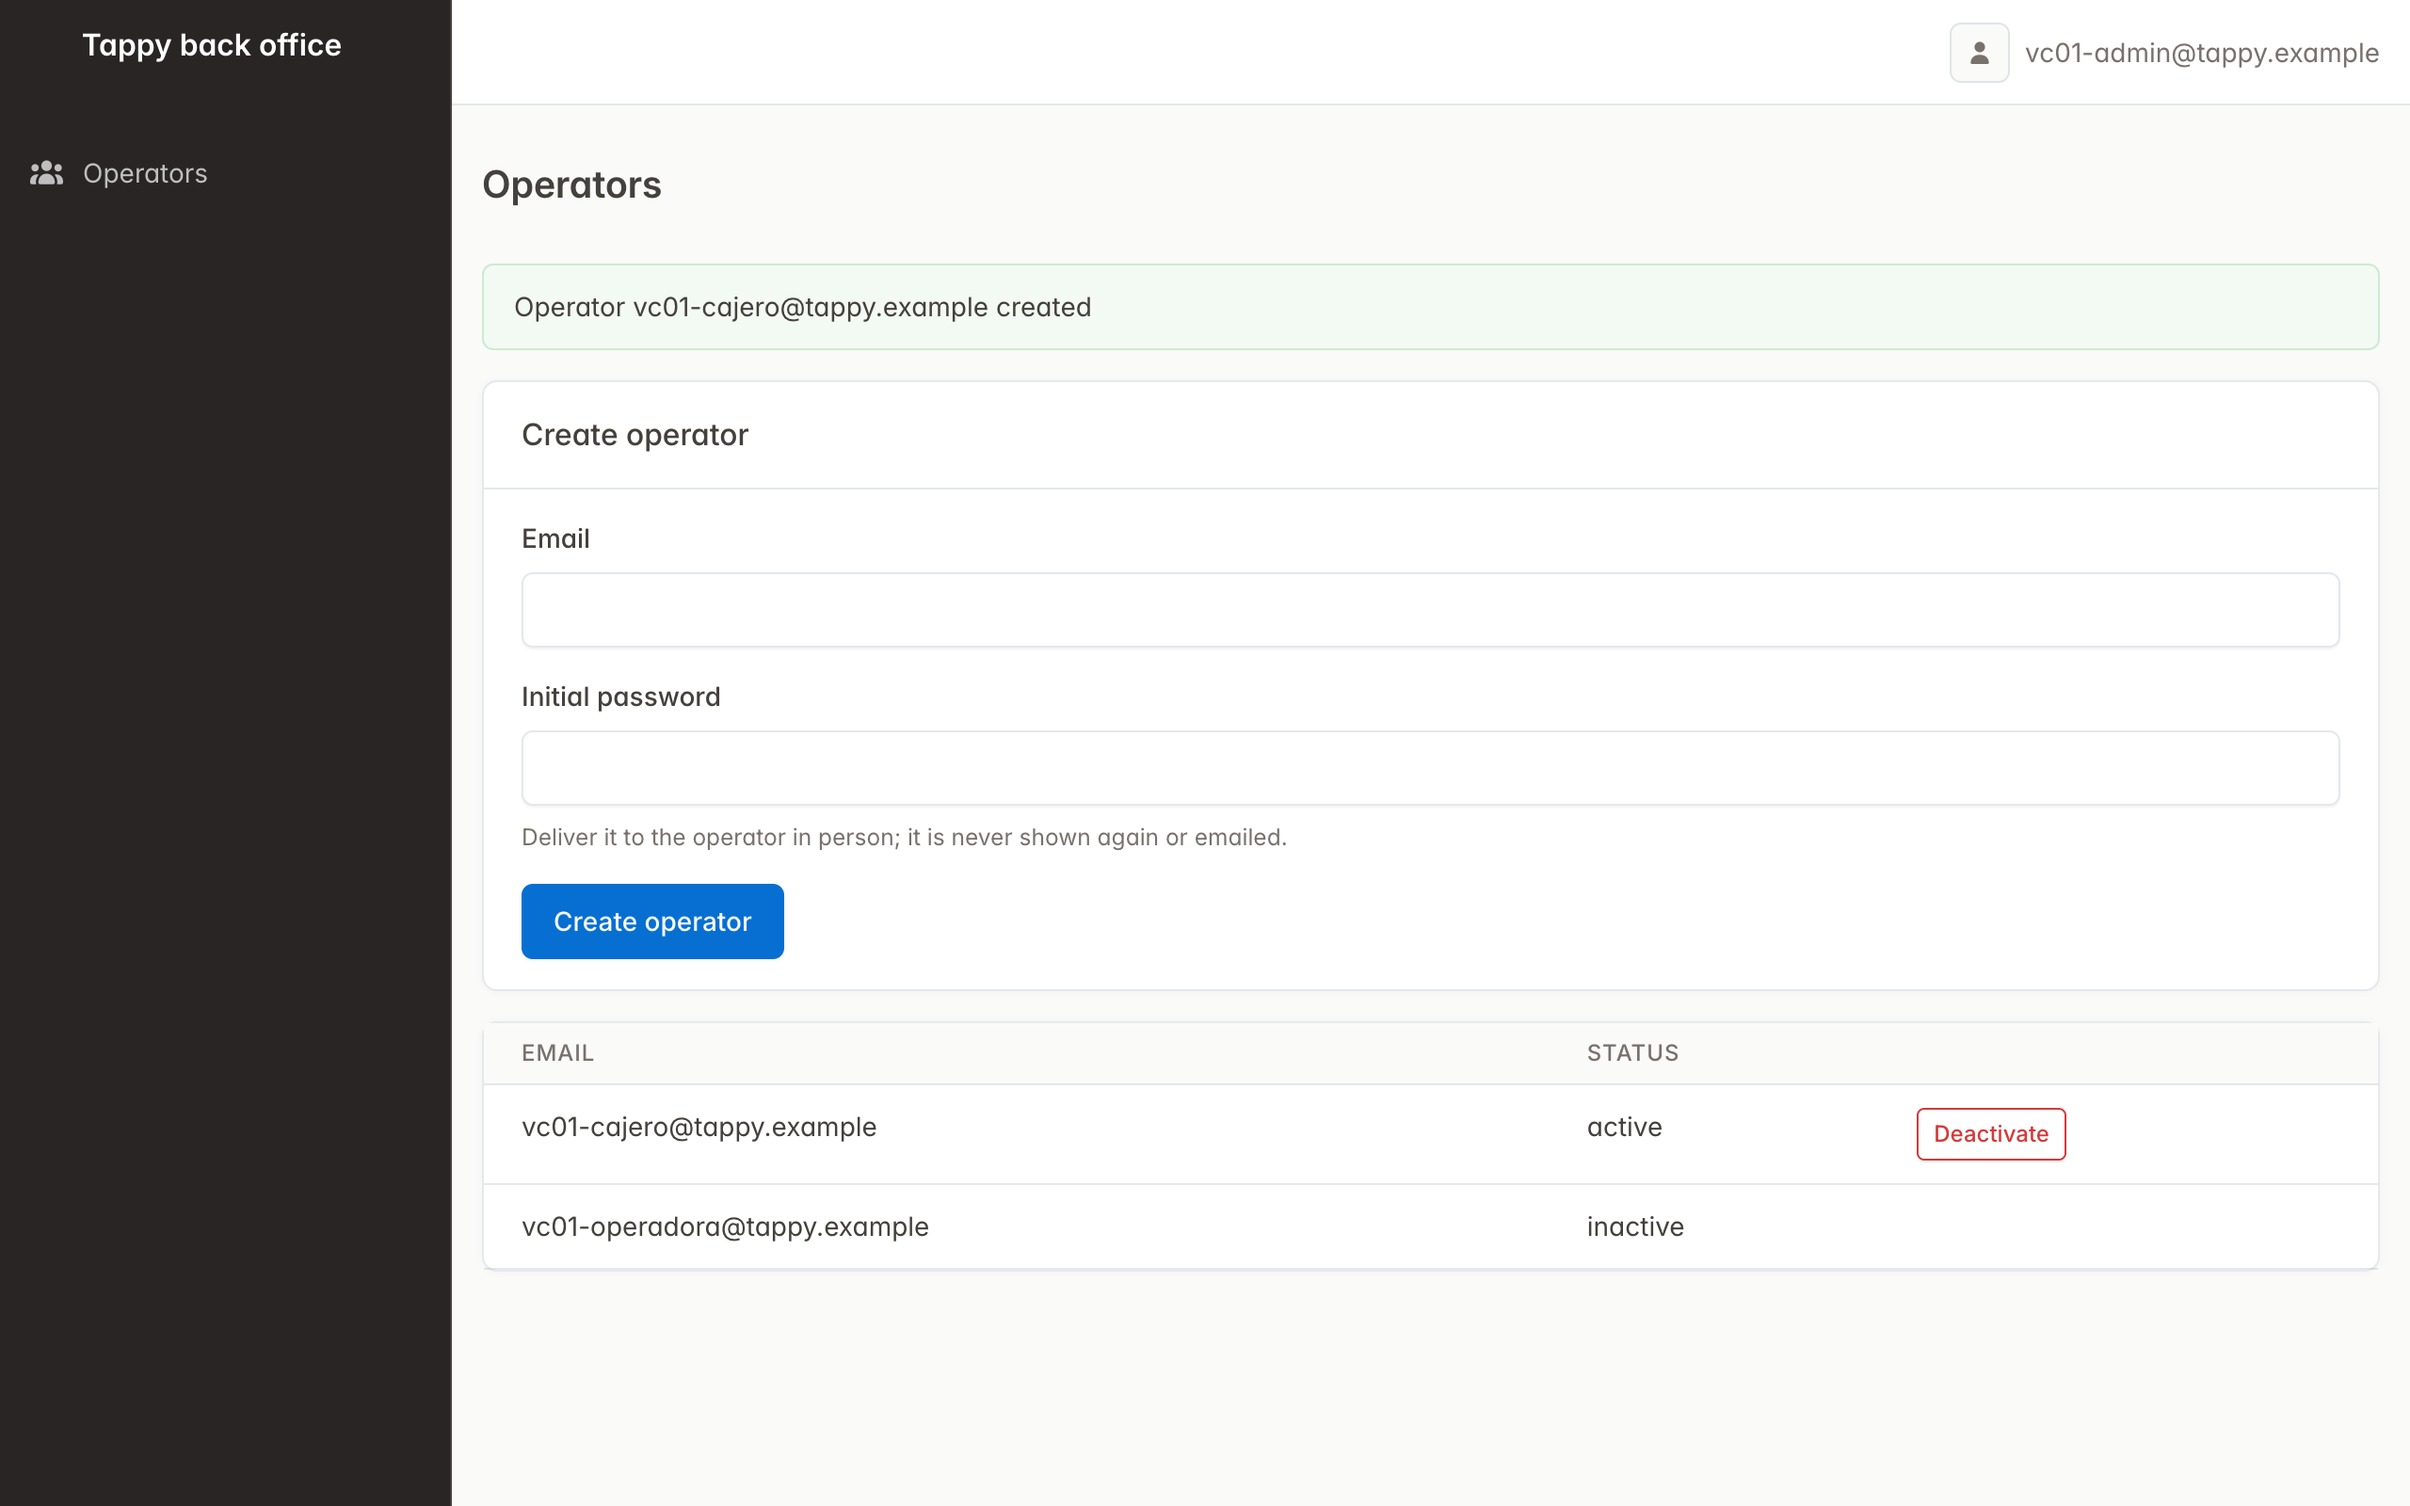
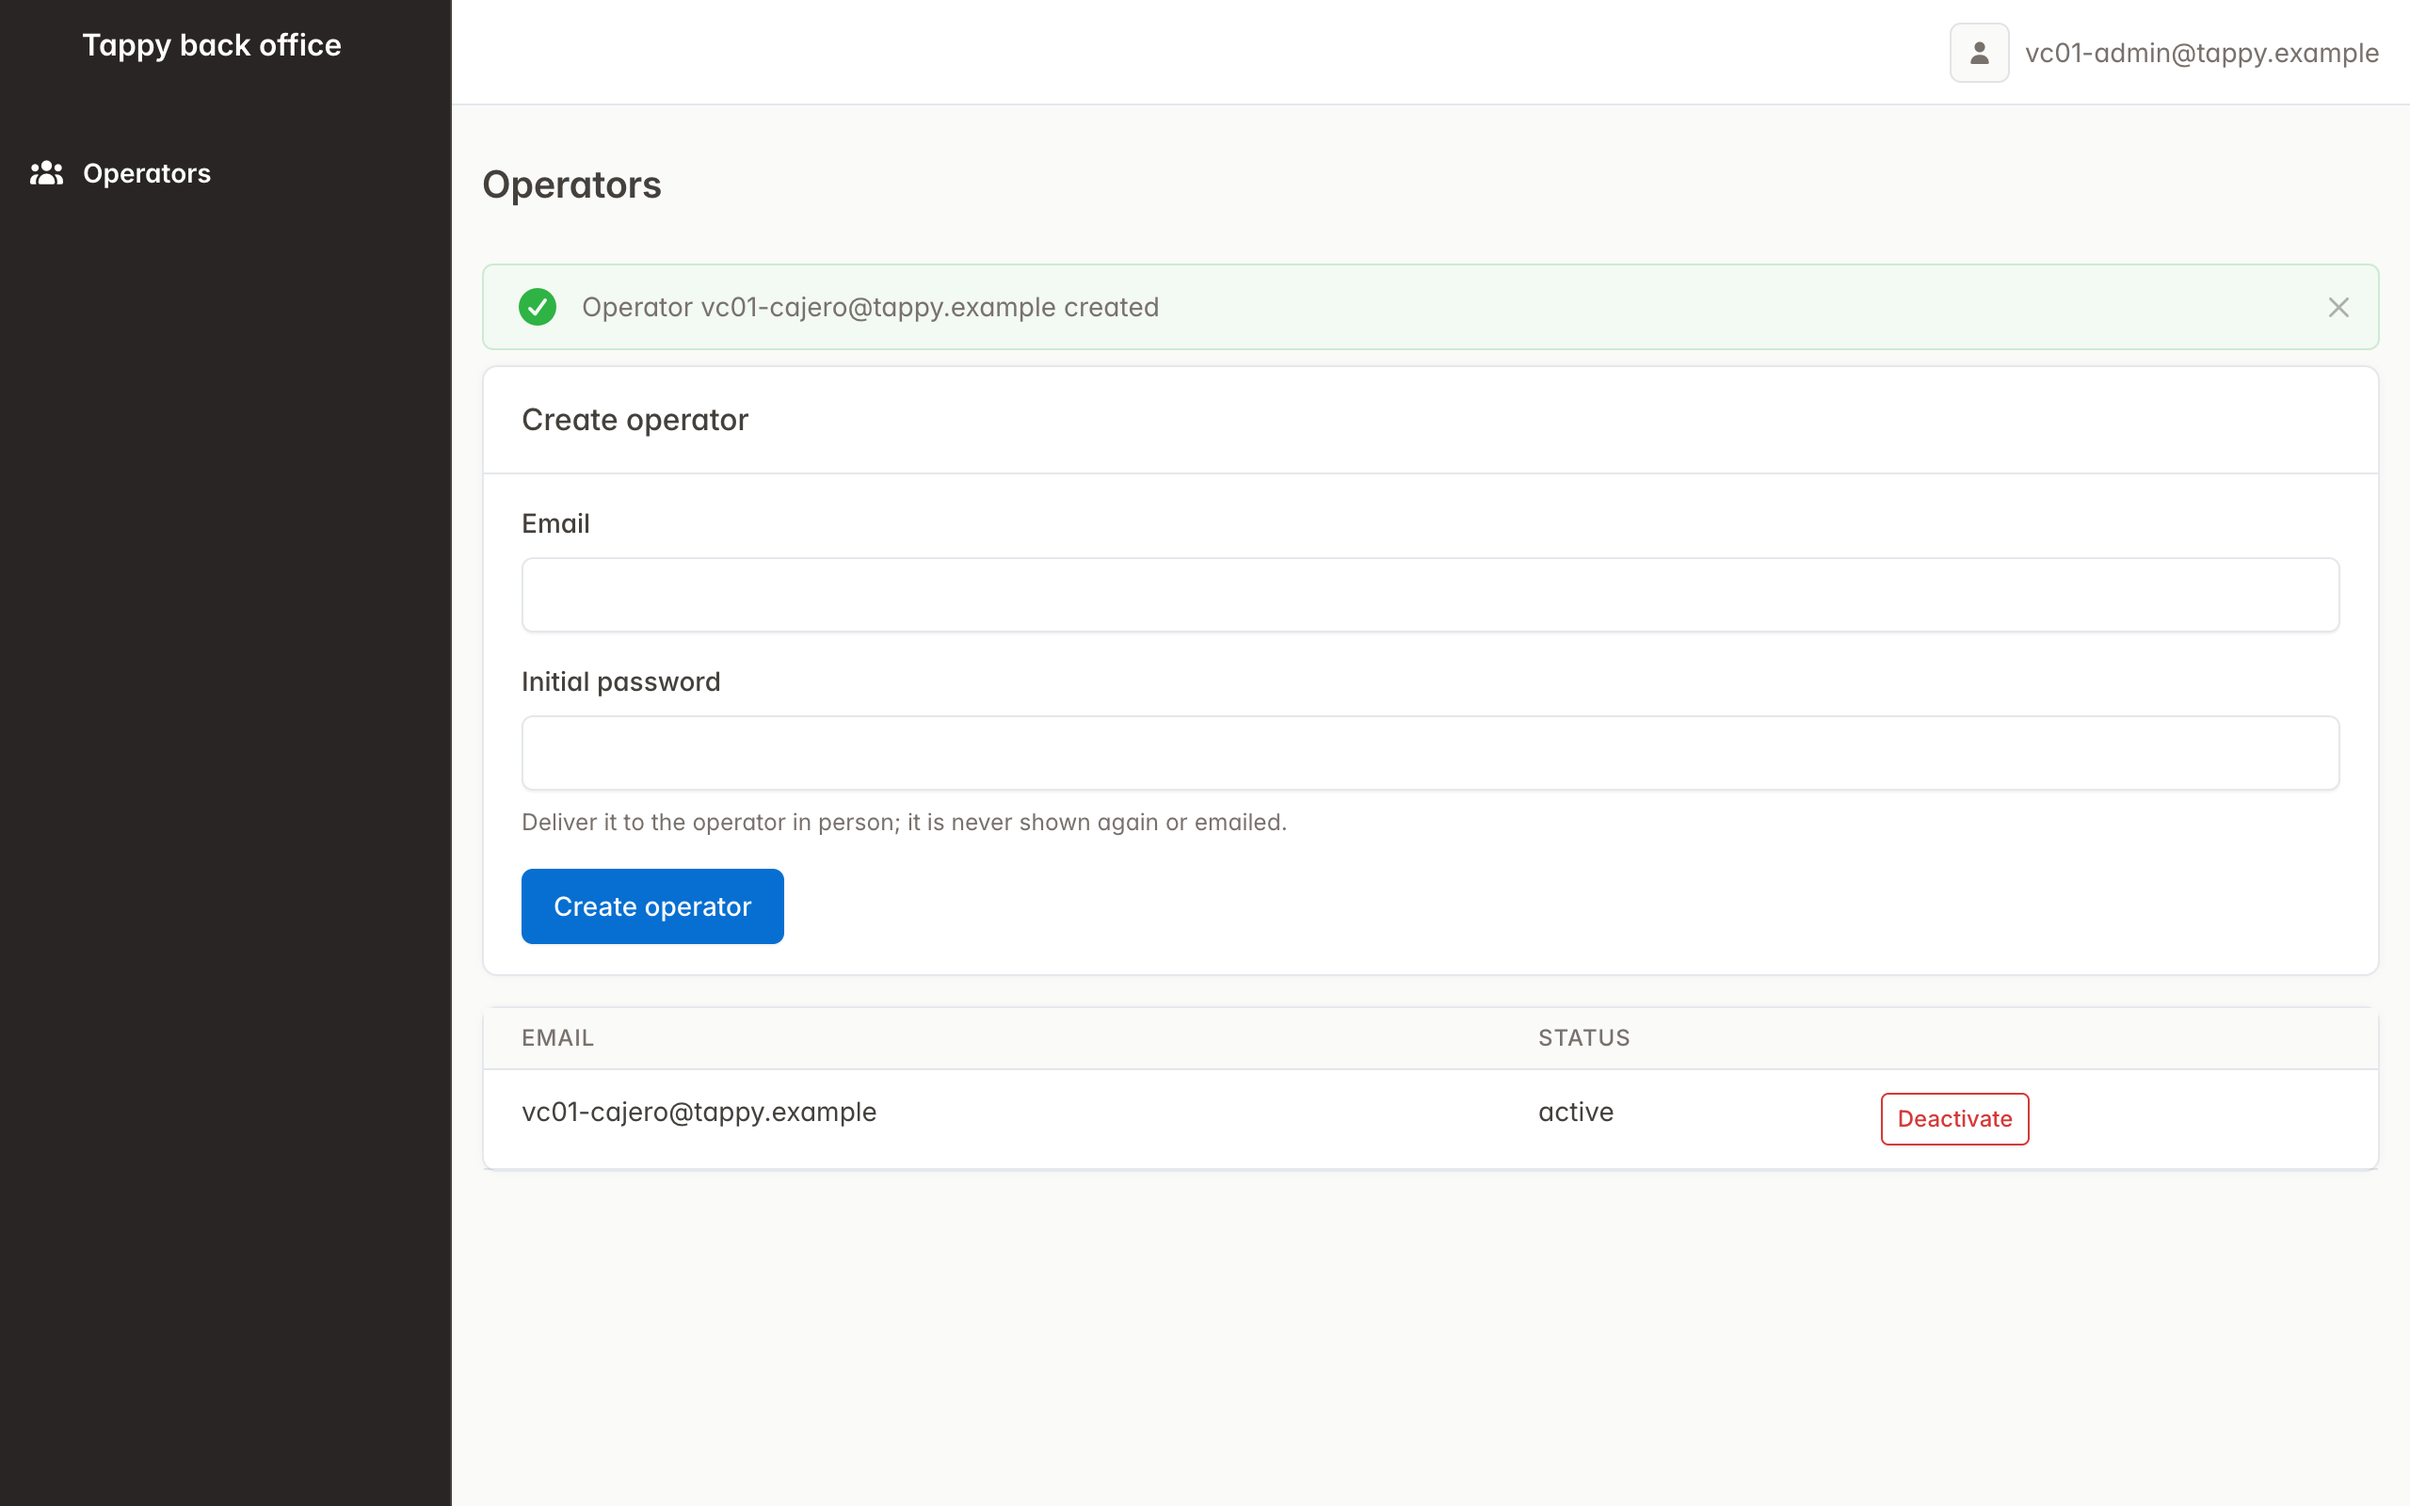
docs(evidence): B08 record review fixes and recaptured panel

diff --git a/docs/evidence/B08-operator-admin.md b/docs/evidence/B08-operator-admin.md
@@ -6,16 +6,16 @@ Ticket: [#16](https://github.com/luisjrez/Tappy/issues/16) · Historia: [H2 #2](
 
 - Ticket, UC/AC/TC y comprobación: B08-UC01–UC03, B08-AC01–AC03, B08-TC01–TC03, B08-VC01.
 - Modalidad: **resultado inicial** (API `/operators` nueva y vista «Operators» nueva en el panel). Los contratos existentes no cambian (8 contratos sin diferencias, incluido `operators-unauthenticated` aprobado en `c3d72c4`). La vista índice del panel de B07 ahora muestra el menú «Operators»: cambio esperado de la navegación.
-- Base: rama B07 `31149bd` (PR #58, stack nativo #54). Revisión evaluada: candidato `c3d72c4`.
+- Base: rama B07 `31149bd` (PR #58, stack nativo #54). Revisiones: candidato `c3d72c4` → código final `8610294` (correcciones de review). Checks, tests y capturas del panel corresponden a `8610294` (recapturadas tras el cambio a POST→redirect→GET); las respuestas de API se capturaron sobre `c3d72c4` y su contrato no cambió salvo el mensaje 404, ahora genérico («Identity not found»).
 - Entorno: macOS, Colima + Compose, Python 3.14.8, starlette-admin 1.0.3; Chrome (DevTools MCP), contexto aislado, 1280×800, tema claro, escala 100 %. Fecha: 2026-11-20. Ejecutor: sesión local de desarrollo del autor del PR.
 - Actores: administrador, operadora, anónimo. Datos: identidades y frases sintéticas `vc01-…@tappy.example`.
 
 ## Diseño
 
 - Casos de uso compartidos `tappy.identity.operators`: `create_operator` (reutiliza `provision_identity` con rol `operator`: correo normalizado, política de contraseña, unicidad sin mayúsculas, sin cambios silenciosos), `list_operators`, `find_operator`, `deactivate_operator` (solo identidades con rol `operator`; `FOR NO KEY UPDATE`; reutiliza `deactivate`, que marca inactiva y revoca todas sus sesiones).
-- Credencial inicial operativa: el administrador define una contraseña inicial que entrega en persona; pasa la misma política que el resto, nunca se devuelve, ni se muestra de nuevo, ni se envía por correo.
-- API (`tappy.identity.operators_router`): `POST /operators` 201 · 409 · 422, `GET /operators`, `GET /operators/{reference}`, `POST /operators/{reference}/deactivate`. Dependencia `CurrentAdmin` (401 sin token válido, 403 «Administrator role required»).
-- Panel: `OperatorsView` (`CustomView` propia, plantilla `operators.html`) con formulario de alta y botón de desactivar por fila; cada formulario lleva el token CSRF. Sin `ModelView` ni CRUD genérico sobre identidades.
+- Credencial inicial operativa: el administrador define una contraseña inicial que entrega en persona; pasa la misma política que el resto, nunca se devuelve, ni se muestra de nuevo, ni se envía por correo. Lectura del ticket («documentar … procedimiento seguro de credencial inicial que aplique antes de activar; no incorporar contraseñas predeterminadas»): el procedimiento se documenta en el README y no hay contraseñas predeterminadas; forzar el cambio en el primer acceso sería una funcionalidad nueva fuera del alcance (el operador puede restablecerla por correo cuando lleguen B41/B42).
+- API (`tappy.identity.operators_router`): `POST /operators` 201 · 409 · 422, `GET /operators`, `GET /operators/{reference}`, `POST /operators/{reference}/deactivate`. El guard `current_admin` se declara una vez en el router (401 sin token válido, 403 «Administrator role required»), así ningún endpoint nuevo queda sin proteger.
+- Panel: `OperatorsView` (`CustomView` propia, plantilla `operators.html`) con formulario de alta y botón de desactivar por fila; cada formulario lleva el token CSRF; cada envío responde 303 a la lista con un mensaje flash (POST→redirect→GET), así recargar no reenvía la acción. Sin `ModelView` ni CRUD genérico sobre identidades. «Retirar CRUD genérico» — No aplica: B07 no registró vistas de modelo, no había CRUD genérico que retirar; se mantiene la regla de no introducirlo.
 - Sin registro público: las únicas rutas `POST` de la API son login/refresh/logout (públicas por naturaleza) y las de operadores (solo admin); un test fija ese conjunto.
 
 ## Trazabilidad UC → AC → TC → test
@@ -23,8 +23,8 @@ Ticket: [#16](https://github.com/luisjrez/Tappy/issues/16) · Historia: [H2 #2](
 | UC | AC | TC | Test real | Resultado |
 | --- | --- | --- | --- | --- |
 | B08-UC01 | B08-AC01 | B08-TC01 | `test_admin_creates_active_operator_without_echoing_the_secret` (201 sin contraseña, `GET` recupera el operador activo, la operadora inicia sesión con la credencial inicial); `test_invalid_initial_credential_is_rejected_without_echo`; `test_admin_creates_operator_from_form_and_sees_it_listed` | PASS |
-| B08-UC02 | B08-AC02 | B08-TC02 | `test_non_admins_cannot_create_or_deactivate_operators` (anónimo 401, operadora 403 en alta, desactivación y listado; sin cambios en DB); `test_there_is_no_public_sign_up_route`; `test_anonymous_form_submission_changes_nothing`; `test_form_without_csrf_changes_nothing` | PASS |
-| B08-UC03 | B08-AC03 | B08-TC03 | `test_repeated_email_is_rejected_without_duplicate` (409, mismo conteo); `test_deactivated_operator_session_stops_authorizing` (access y refresh de la operadora → 401; estado `inactive`); `test_admin_identities_are_not_managed_as_operators` (404); `test_repeated_email_in_form_is_rejected_without_duplicate`; `test_deactivation_from_panel_revokes_operator_session` | PASS |
+| B08-UC02 | B08-AC02 | B08-TC02 | `test_non_admins_cannot_create_or_deactivate_operators` (anónimo 401, operadora 403 en alta, desactivación y listado; sin cambios en DB); `test_there_is_no_public_sign_up_route`; `test_anonymous_form_submission_changes_nothing`; `test_form_without_csrf_changes_nothing`; `test_anonymous_deactivation_changes_nothing`; `GET /operators/{reference}` también cubierto para anónimo y operadora | PASS |
+| B08-UC03 | B08-AC03 | B08-TC03 | `test_repeated_email_is_rejected_without_duplicate` (409, mismo conteo); `test_deactivated_operator_session_stops_authorizing` (access y refresh de la operadora → 401; estado `inactive`); `test_admin_identities_are_not_managed_as_operators` (404); `test_repeated_email_in_form_is_rejected_without_duplicate`; `test_deactivation_from_panel_revokes_operator_session`; `test_reloading_after_creation_does_not_resubmit` | PASS |
 
 ## TDD
 
@@ -36,10 +36,12 @@ Ticket: [#16](https://github.com/luisjrez/Tappy/issues/16) · Historia: [H2 #2](
 | Alta crea operadores, no admins | Mutación con rol admin → fallan alta por API y por panel | `Role.OPERATOR` |
 | Desactivar cambia estado y corta acceso | Mutación sin cambiar estado → falla `…stops_authorizing` | `deactivate` |
 | Solo operadores son gestionables | Mutación sin filtro de rol → falla `…not_managed_as_operators` | Filtro `role = operator` |
+| POST→redirect→GET y 404 genérico (review) | Tests actualizados: 5 fallos (estado 201/422/200 en lugar de 303; detalle 404 «No identity with this email») | Redirección con flash; mensaje «Identity not found» |
+| Guard a nivel de router (review) | Mutación con `dependencies=[]` → fallan los casos 401 y 403 | `dependencies=[Depends(current_admin)]` |
 
 TC02/TC03 restantes (duplicados, CSRF, anónimo, signup) pasaron a la primera porque los aportan `provision_identity`, el CSRF y la autenticación del panel de tickets anteriores; quedan como regresión.
 
-Refactor con suite verde: `provision_identity(role)` compartido por `bootstrap-admin` y el alta de operadores; `deactivate(identity)` compartido por el comando y la gestión de operadores; API y panel llaman a los mismos casos de uso.
+Refactor con suite verde: consulta `operator_by_reference` y `not_found` compartidos; nombres sin sombra (`submit_creation`/`submit_deactivation`, `register`/`retire`, `deactivate_and_revoke`); `provision_identity(role)` compartido por `bootstrap-admin` y el alta de operadores; `deactivate(identity)` compartido por el comando y la gestión de operadores; API y panel llaman a los mismos casos de uso.
 
 ## B08-VC01 — Resultado inicial de API y panel
 
@@ -59,15 +61,15 @@ Panel (`/admin/operators`, mismo servidor):
 
 | Vista / TC | Captura | Comprobación |
 | --- | --- | --- |
-| Alta desde el formulario (TC01) | ![Operador creado](B08/01-operador-creado.png) | Mensaje «Operator vc01-cajero@tappy.example created»; fila activa con botón Deactivate; la contraseña no aparece |
+| Alta desde el formulario (TC01) | ![Operador creado](B08/01-operador-creado.png) | Tras el 303, aviso flash «Operator vc01-cajero@tappy.example created» en `/admin/operators`; fila activa con botón Deactivate; la contraseña no aparece |
 | Correo repetido en mayúsculas (TC03) | ![Correo repetido](B08/02-correo-repetido-rechazado.png) | «An identity with this email already exists»; lista sin duplicados |
-| Desactivación desde el panel (TC03) | ![Operador desactivado](B08/03-operador-desactivado.png) | «Operator … deactivated»; fila `inactive` sin botón |
+| Desactivación desde el panel (TC03) | ![Operador desactivado](B08/03-operador-desactivado.png) | «Operator … deactivated»; fila `inactive` sin botón. Recargar después muestra la lista sin aviso ni reenvío |
 
 El log del servidor no contiene contraseñas (0 coincidencias). Teclado/foco: formularios con etiquetas asociadas (`Email`, `Initial password`) completados por su árbol de accesibilidad. Datos de prueba eliminados al terminar. Estado VC01: **PASS** (resultado inicial).
 
-## Checks
+## Checks sobre `8610294`
 
-Pendiente de registrar sobre la revisión final.
+`uv run python -m quality.check`: format, lint, types, hygiene, migrations, tests, api (8 contratos sin diferencias) en PASS; `evidence` bloquea B08 solo hasta aprobar el review.
 
 ## Supresiones
 
@@ -79,4 +81,19 @@ AC PASS / AC aplicables = 3/3 = **100%**.
 
 ## Review Standards/Spec
 
-Pendiente.
+Ronda 1 sobre `c3d72c4`, sin bloqueantes; correcciones en `8610294`.
+
+| Eje | Hallazgo | Resolución |
+| --- | --- | --- |
+| Standards | Guard de admin repetido por endpoint; `GET /operators/{reference}` sin caso anónimo/operador | Guard único en el router (+ mutación); caso añadido |
+| Standards | `IdentityNotFoundError` decía «No identity with this email» en búsquedas por referencia | «Identity not found» |
+| Standards | Consulta de operador y manejo 404 duplicados | `operator_by_reference`, `not_found` |
+| Standards | Nombres sombreados (`create_operator` en la vista, `deactivate` genérico) | `submit_creation`/`submit_deactivation`, `register`/`retire`, `deactivate_and_revoke` |
+| Standards / Spec | Panel 422/404 frente a API 409/404 | El panel ya no usa códigos por error: 303 + mensaje flash; la API conserva sus códigos de contrato |
+| Standards | `reference` como `str` frente a `uuid.UUID` | Se conserva: `IdentitySummary` es el DTO de salida (texto); las rutas validan `uuid` en la frontera |
+| Standards | Desactivación anónima desde el panel sin test | `test_anonymous_deactivation_changes_nothing` |
+| Spec | Recargar tras un POST reenviaba la acción | POST→redirect→GET con flash; test y recorrido real |
+| Spec | Credencial inicial activa de inmediato | Lectura documentada en Diseño (procedimiento documentado, sin predeterminadas) |
+| Spec | «Retirar CRUD genérico» sin No aplica | No aplica justificado en Diseño |
+
+Re-revisión: pendiente.
